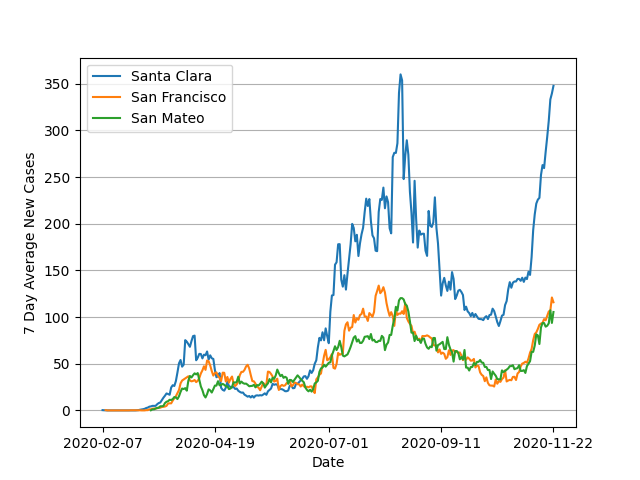
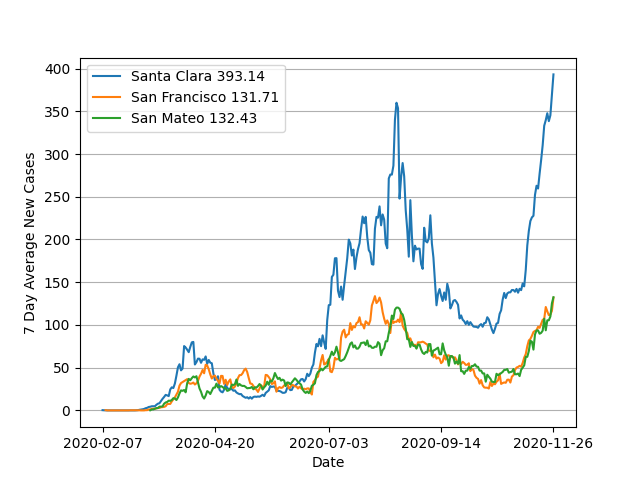
Now with website

diff --git a/index.html b/index.html
@@ -1,0 +1,28 @@
+<html>
+  <head>
+    <title>Covid charts</title>
+    <meta name="viewport" content="width=device-width, initial-scale=1.0">
+    <style>
+body {
+  padding-top: 2em;
+  text-align: center;
+  font-family: sans-serif;
+}
+h1 {
+  font-weight: normal;
+}
+.graph {
+  width: 100%;
+  max-width: 600px;
+}
+p {
+  font-weight: 300;
+  font-size: 12px;
+}
+    </style>
+  </head>
+  <body>
+    <h1>Covid charts by Jake</h1>
+    <script src="./index.js"></script>
+  </body>
+</html>

diff --git a/index.js b/index.js
@@ -1,0 +1,11 @@
+const xhr = new XMLHttpRequest();
+xhr.open('GET', 'out/files.json');
+xhr.responseType = 'application/json';
+xhr.onload = () => {
+  const files = JSON.parse(xhr.response);
+  files.forEach(f => {
+    document.body.innerHTML += '<div><img src="' + f + '" class="graph" /></div>';
+  });
+  document.body.innerHTML += '<p>Data from the New York Times covid tracking project. Updated twice daily.<p>'
+}
+xhr.send();

diff --git a/covid.py b/covid.py
@@ -1,3 +1,4 @@
+import json
 import os
 from matplotlib import pyplot
 from datetime import datetime
@@ -13,6 +14,7 @@ GRAPHS = [
 ]
 res = request.urlopen(URL)
 california = [r.decode('utf-8').strip().split(',') for r in res if 'California' in r.decode('utf-8')]
+files = []
 
 data = {}
 for row in california:
@@ -46,7 +48,7 @@ for graphCounties in GRAPHS:
       for i in range(7, len(cases)):
         averageCases.append(sum(cases[i - 7:i]) / 7)
 
-      pyplot.plot(days[7:], averageCases, label=county)
+      pyplot.plot(days[7:], averageCases, label=county + " {:.2f}".format(averageCases[-1]))
 
   pyplot.legend()
   locs, _ = pyplot.xticks()
@@ -58,4 +60,7 @@ for graphCounties in GRAPHS:
 
   filename = PATH + '/' + '_'.join(graphCounties).lower().replace(' ', '_') + '.png'
   pyplot.savefig(filename)
+  files.append(filename[1:])
 
+with open(PATH + '/files.json', 'w') as f:
+  f.write(json.dumps(files))
